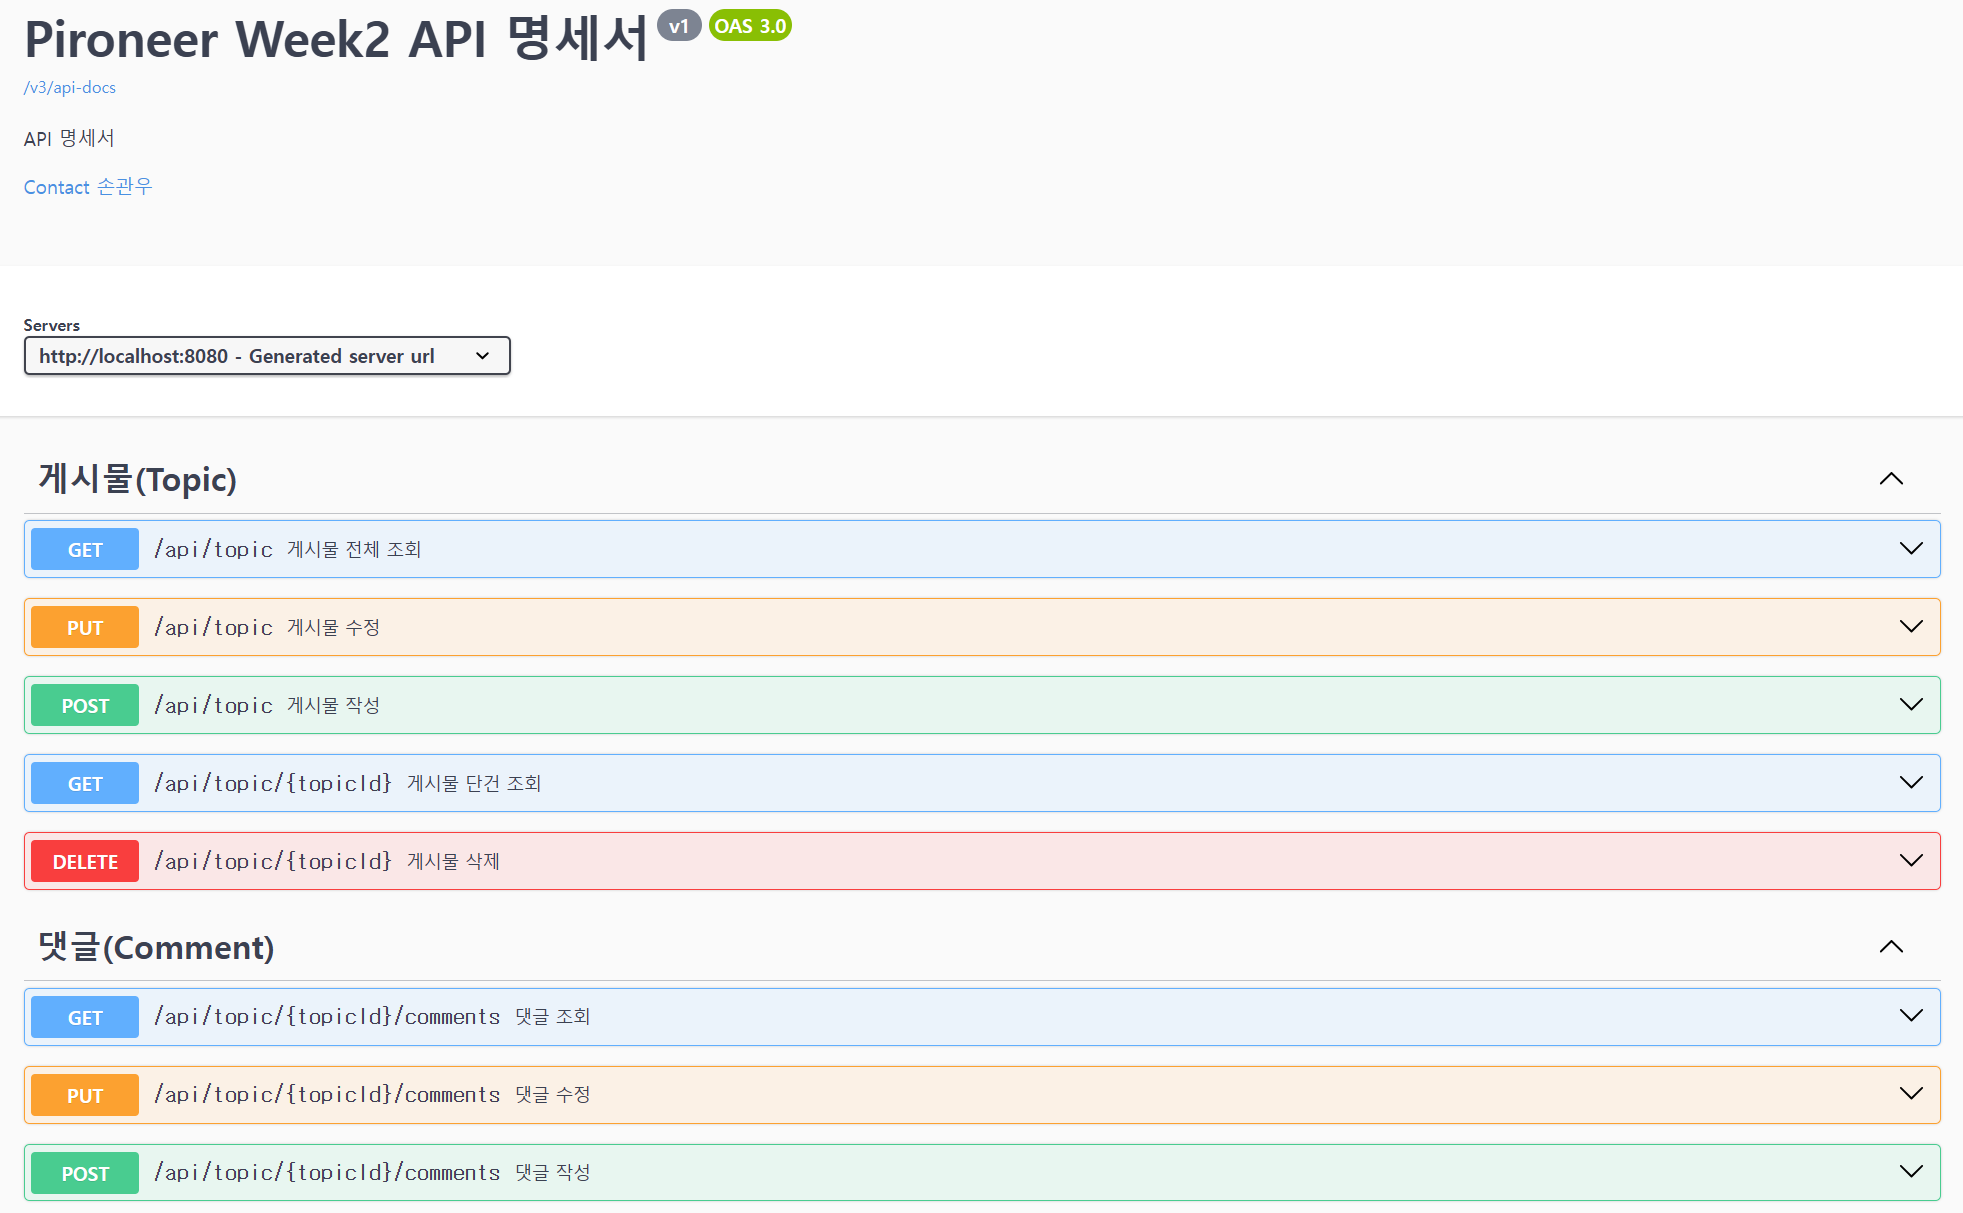
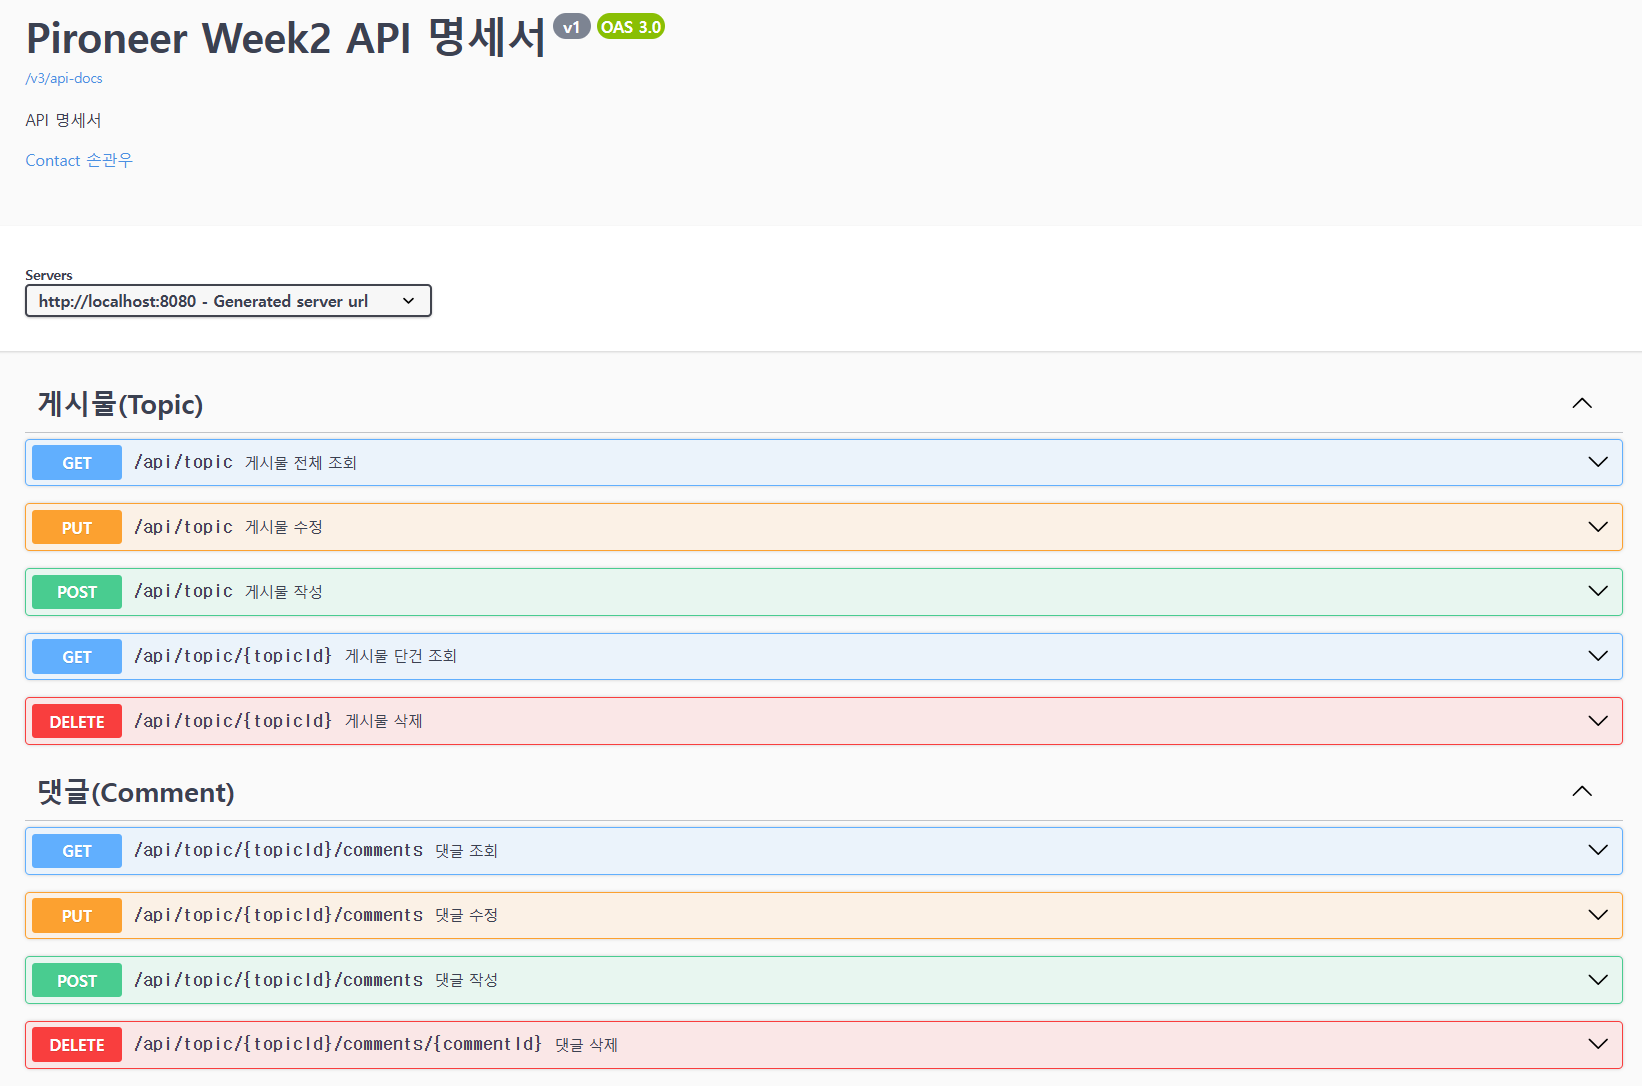
2주차 과제- 이미지 추가

diff --git a/Swagger/src/main/java/com/pironeer/week2_1/service/CommentService.java b/Swagger/src/main/java/com/pironeer/week2_1/service/CommentService.java
@@ -59,16 +59,28 @@ public class CommentService {
             throw new RuntimeException("COMMENT NOT FOUND");
         }
 
-        // 댓글 내용 수정
         existingComment.setContent(request.content());
         existingComment.setUpdatedAt(java.time.LocalDateTime.now());
         return CommentMapper.toResponse(existingComment);
     }
 
     public void deleteById(Long id) {
-        if (!commentMap.containsKey(id)) {
+        Comment comment = commentMap.get(id);
+        if (comment == null) {
             throw new RuntimeException("COMMENT NOT FOUND");
         }
+
+        if (!comment.getChildComments().isEmpty()) {
+            comment.getChildComments().clear();
+        }
+
+        if (comment.getParentCommentId() != null) {
+            Comment parentComment = commentMap.get(comment.getParentCommentId());
+            if (parentComment != null) {
+                parentComment.getChildComments().removeIf(c -> c.getId().equals(id));
+            }
+        }
+
         commentMap.remove(id);
     }
 }

diff --git a/Swagger/src/main/java/com/pironeer/week2_1/controller/CommentController.java b/Swagger/src/main/java/com/pironeer/week2_1/controller/CommentController.java
@@ -40,4 +40,11 @@ public class CommentController {
         List<CommentResponse> responses = commentService.findAllByTopic(topicId);
         return ResponseEntity.ok(responses);
     }
+
+    @DeleteMapping("/{commentId}")
+    @Operation(summary = "댓글 삭제")
+    public ResponseEntity<?> deleteComment(@PathVariable Long topicId, @PathVariable Long commentId) {
+        commentService.deleteById(commentId);
+        return ResponseEntity.ok().build();
+    }
 }
